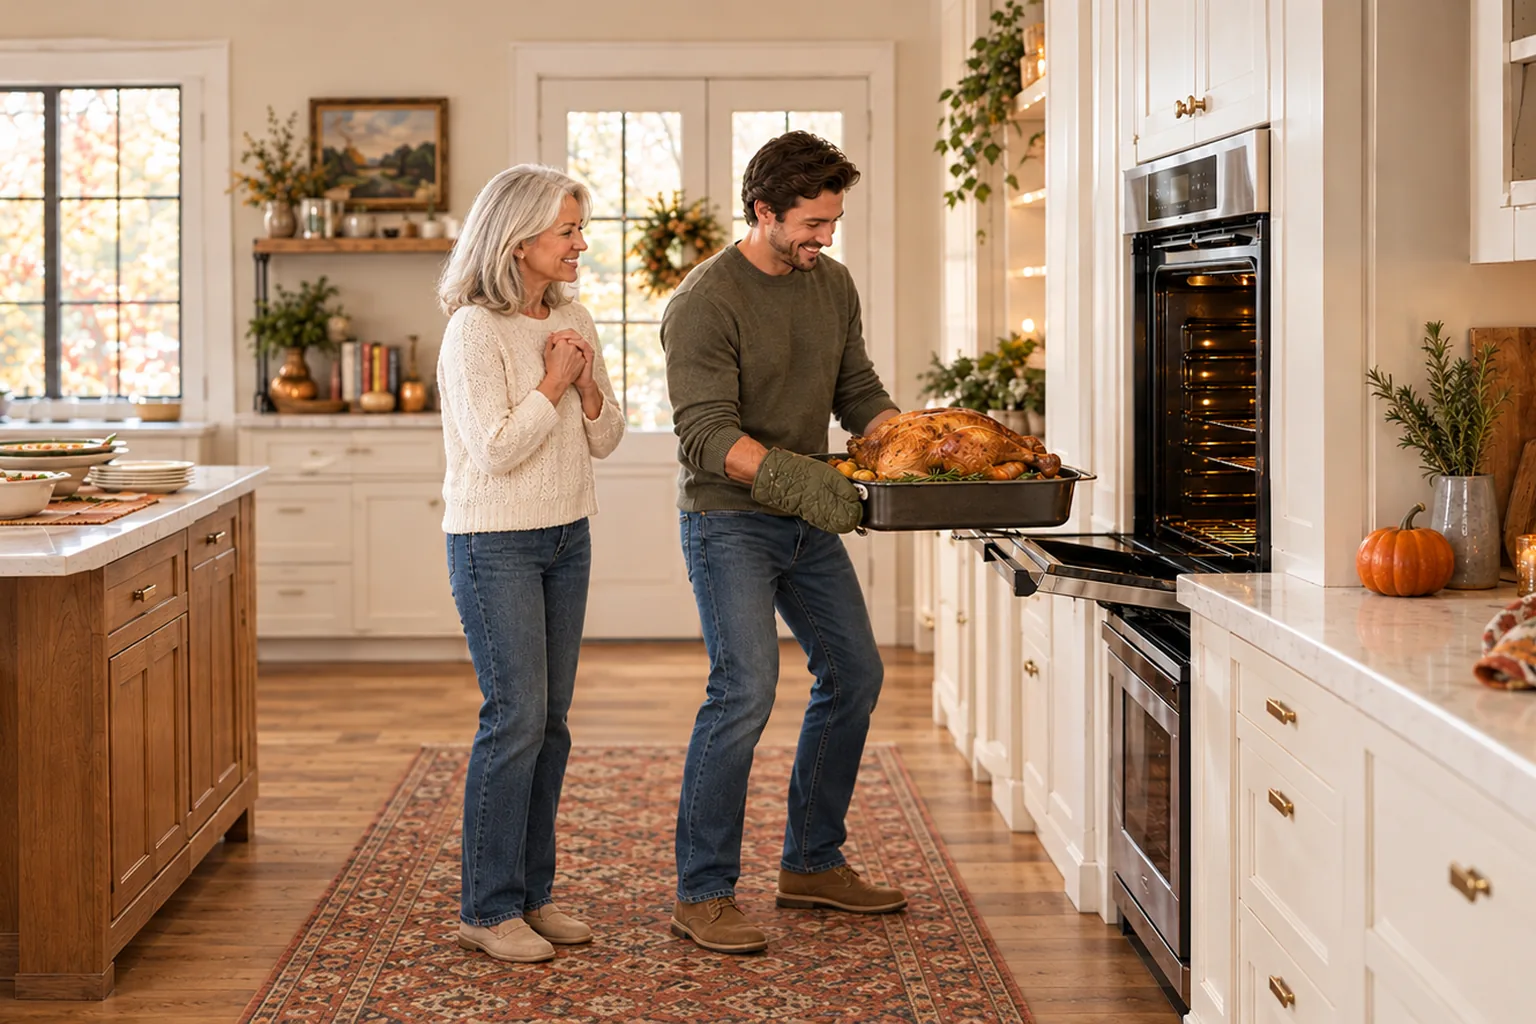
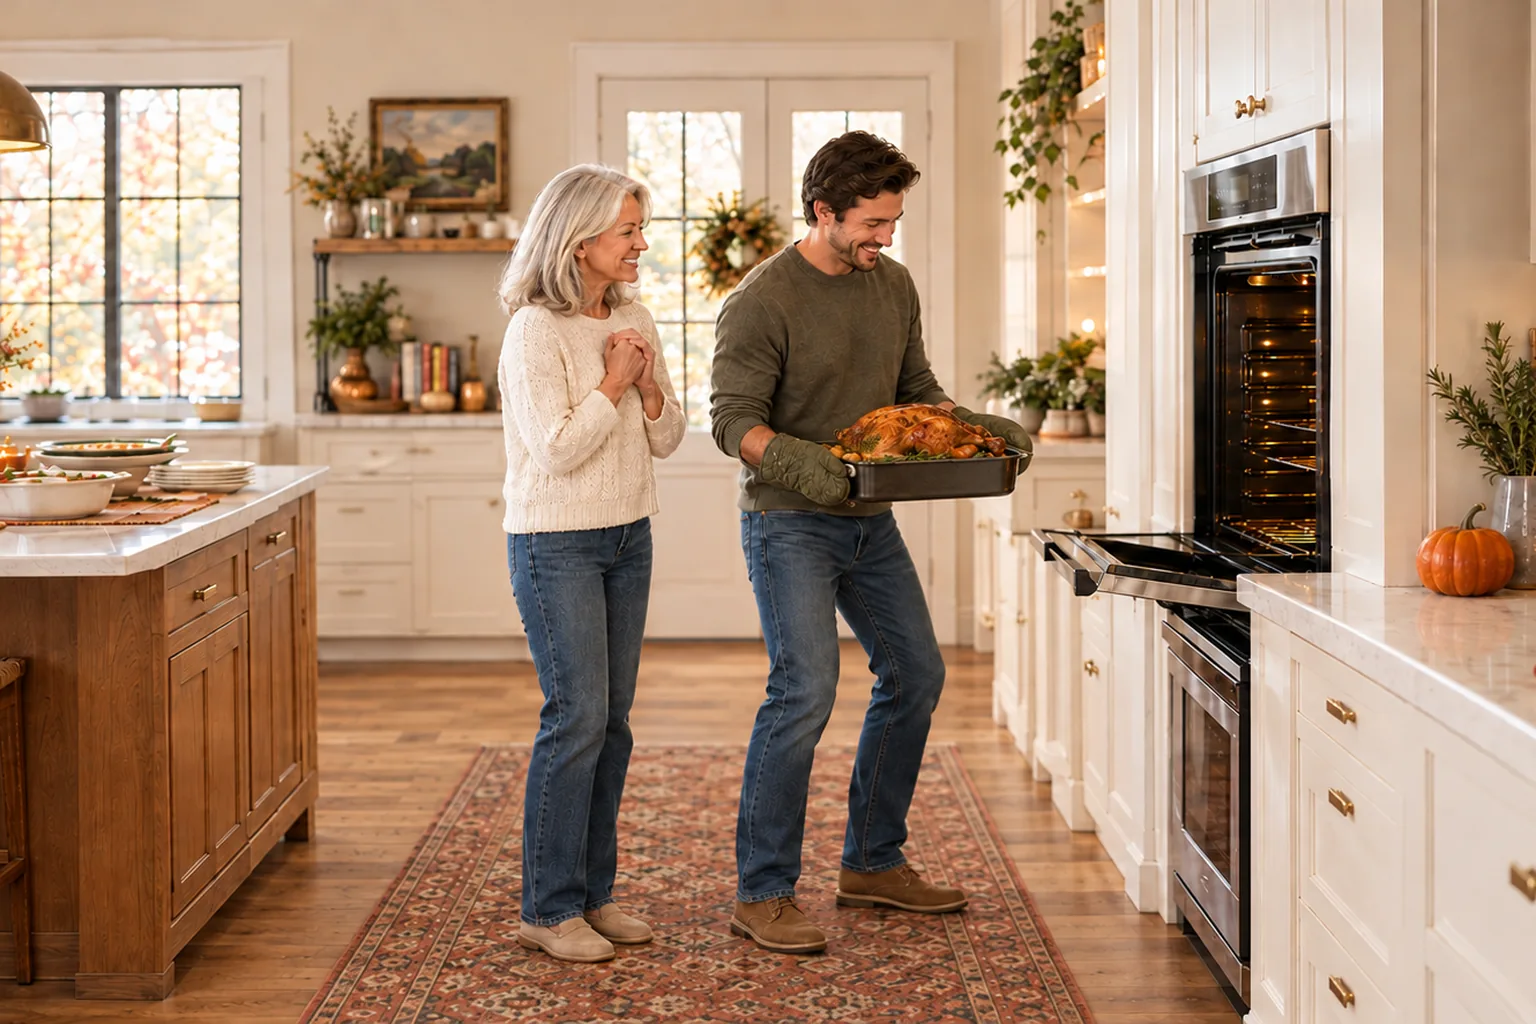
Nov 10 post: corrected hero pan geometry, X-ray line removed per Lisa

diff --git a/blog/holiday-chores-lifting-osteoporosis.html b/blog/holiday-chores-lifting-osteoporosis.html
@@ -624,7 +624,7 @@
     <!-- Post Hero -->
     <div class="post-hero">
         <div class="post-hero-image">
-            <picture><source type="image/webp" srcset="../images/blog-holiday-chores-lifting-osteoporosis-400.webp 400w, ../images/blog-holiday-chores-lifting-osteoporosis-800.webp 800w, ../images/blog-holiday-chores-lifting-osteoporosis-1536.webp 1536w" sizes="100vw"><img src="../images/blog-holiday-chores-lifting-osteoporosis.png" alt="A smiling young man in oven mitts slides a roasting pan with a turkey out of a waist-high wall oven, keeping it close to his body, while his silver-haired mother stands beside him with her hands clasped, watching gratefully" width="1536" height="1024" fetchpriority="high" decoding="async" style="object-position: center 25%"></picture>
+            <picture><source type="image/webp" srcset="../images/blog-holiday-chores-lifting-osteoporosis-400.webp 400w, ../images/blog-holiday-chores-lifting-osteoporosis-800.webp 800w, ../images/blog-holiday-chores-lifting-osteoporosis-1536.webp 1536w" sizes="100vw"><img src="../images/blog-holiday-chores-lifting-osteoporosis.png" alt="A smiling young man holds a roasting pan with a turkey close to his body, gripping both handles with oven mitts, after taking it out of a wall oven, while his silver-haired mother stands beside him with her hands clasped, watching gratefully" width="1536" height="1024" fetchpriority="high" decoding="async" style="object-position: center 25%"></picture>
         </div>
         <div class="post-header">
             <span class="post-tag">Exercise</span>
@@ -768,7 +768,7 @@
 
         <p>It's usually <a href="https://www.osteoporosis.foundation/sites/iofbonehealth/files/2026-09/osteoporosis_whatyouneedtoknow_en_1.pdf" target="_blank" rel="noopener noreferrer">in the middle or lower back</a>.</p>
 
-        <p>If that sounds like what you're feeling, call your doctor. A <a href="https://www.orthoinfo.org/diseases--conditions/osteoporosis-and-spinal-fractures/" target="_blank" rel="noopener noreferrer">spine X-ray</a> can tell whether a bone has broken. Not every spine fracture hurts, either. Losing height or noticing your upper back is more curved can <a href="https://theros.org.uk/information-and-support/about-osteoporosis-and-osteopenia/osteoporosis-symptoms/" target="_blank" rel="noopener noreferrer">also be a sign</a>, and it's worth mentioning at your next visit.</p>
+        <p>If that sounds like what you're feeling, call your doctor for further evaluation. Not every spine fracture hurts, either. Losing height or noticing your upper back is more curved can <a href="https://theros.org.uk/information-and-support/about-osteoporosis-and-osteopenia/osteoporosis-symptoms/" target="_blank" rel="noopener noreferrer">also be a sign</a>, and it's worth mentioning at your next visit.</p>
 
         <p>The American Association of Neurological Surgeons says to <a href="https://www.aans.org/patients/conditions-treatments/vertebral-compression-fractures/" target="_blank" rel="noopener noreferrer">go to the emergency room</a> if back pain comes with numbness or weakness (for example, in your legs), severe pain, a high fever, or any loss of control of your bladder or bowels. These are uncommon, but they can mean <a href="https://www.orthoinfo.org/diseases--conditions/osteoporosis-and-spinal-fractures/" target="_blank" rel="noopener noreferrer">a nerve is under pressure</a> or something else needs urgent care.</p>
 

diff --git a/scripts/november-bodies/holiday-chores-lifting-osteoporosis.html b/scripts/november-bodies/holiday-chores-lifting-osteoporosis.html
@@ -131,7 +131,7 @@
 
 <p>It's usually <a href="https://www.osteoporosis.foundation/sites/iofbonehealth/files/2026-09/osteoporosis_whatyouneedtoknow_en_1.pdf" target="_blank" rel="noopener noreferrer">in the middle or lower back</a>.</p>
 
-<p>If that sounds like what you're feeling, call your doctor. A <a href="https://www.orthoinfo.org/diseases--conditions/osteoporosis-and-spinal-fractures/" target="_blank" rel="noopener noreferrer">spine X-ray</a> can tell whether a bone has broken. Not every spine fracture hurts, either. Losing height or noticing your upper back is more curved can <a href="https://theros.org.uk/information-and-support/about-osteoporosis-and-osteopenia/osteoporosis-symptoms/" target="_blank" rel="noopener noreferrer">also be a sign</a>, and it's worth mentioning at your next visit.</p>
+<p>If that sounds like what you're feeling, call your doctor for further evaluation. Not every spine fracture hurts, either. Losing height or noticing your upper back is more curved can <a href="https://theros.org.uk/information-and-support/about-osteoporosis-and-osteopenia/osteoporosis-symptoms/" target="_blank" rel="noopener noreferrer">also be a sign</a>, and it's worth mentioning at your next visit.</p>
 
 <p>The American Association of Neurological Surgeons says to <a href="https://www.aans.org/patients/conditions-treatments/vertebral-compression-fractures/" target="_blank" rel="noopener noreferrer">go to the emergency room</a> if back pain comes with numbness or weakness (for example, in your legs), severe pain, a high fever, or any loss of control of your bladder or bowels. These are uncommon, but they can mean <a href="https://www.orthoinfo.org/diseases--conditions/osteoporosis-and-spinal-fractures/" target="_blank" rel="noopener noreferrer">a nerve is under pressure</a> or something else needs urgent care.</p>
 

diff --git a/blog/index.html b/blog/index.html
@@ -516,7 +516,7 @@
             <div class="blog-grid">
                 <a href="holiday-chores-lifting-osteoporosis.html" class="blog-card">
                     <div class="blog-card-image">
-                        <picture><source type="image/webp" srcset="../images/blog-holiday-chores-lifting-osteoporosis-400.webp 400w, ../images/blog-holiday-chores-lifting-osteoporosis-800.webp 800w, ../images/blog-holiday-chores-lifting-osteoporosis-1536.webp 1536w" sizes="(max-width: 768px) 100vw, 380px"><img src="../images/blog-holiday-chores-lifting-osteoporosis.png" alt="A smiling young man in oven mitts slides a roasting pan with a turkey out of a waist-high wall oven, keeping it close to his body, while his silver-haired mother stands beside him with her hands clasped, watching gratefully" width="1536" height="1024" fetchpriority="high" decoding="async"></picture>
+                        <picture><source type="image/webp" srcset="../images/blog-holiday-chores-lifting-osteoporosis-400.webp 400w, ../images/blog-holiday-chores-lifting-osteoporosis-800.webp 800w, ../images/blog-holiday-chores-lifting-osteoporosis-1536.webp 1536w" sizes="(max-width: 768px) 100vw, 380px"><img src="../images/blog-holiday-chores-lifting-osteoporosis.png" alt="A smiling young man holds a roasting pan with a turkey close to his body, gripping both handles with oven mitts, after taking it out of a wall oven, while his silver-haired mother stands beside him with her hands clasped, watching gratefully" width="1536" height="1024" fetchpriority="high" decoding="async"></picture>
                     </div>
                     <div class="blog-card-content">
                         <span class="blog-card-tag">Exercise</span>

diff --git a/index.html b/index.html
@@ -1367,7 +1367,7 @@
             <div class="blog-grid">
                 <article class="blog-card">
                     <div class="blog-card-image">
-                        <picture><source type="image/webp" srcset="images/blog-holiday-chores-lifting-osteoporosis-400.webp 400w, images/blog-holiday-chores-lifting-osteoporosis-800.webp 800w, images/blog-holiday-chores-lifting-osteoporosis-1536.webp 1536w" sizes="(max-width: 768px) 100vw, 380px"><img src="images/blog-holiday-chores-lifting-osteoporosis.png" alt="A smiling young man in oven mitts slides a roasting pan with a turkey out of a waist-high wall oven, keeping it close to his body, while his silver-haired mother stands beside him with her hands clasped, watching gratefully" width="1536" height="1024" loading="lazy" decoding="async"></picture>
+                        <picture><source type="image/webp" srcset="images/blog-holiday-chores-lifting-osteoporosis-400.webp 400w, images/blog-holiday-chores-lifting-osteoporosis-800.webp 800w, images/blog-holiday-chores-lifting-osteoporosis-1536.webp 1536w" sizes="(max-width: 768px) 100vw, 380px"><img src="images/blog-holiday-chores-lifting-osteoporosis.png" alt="A smiling young man holds a roasting pan with a turkey close to his body, gripping both handles with oven mitts, after taking it out of a wall oven, while his silver-haired mother stands beside him with her hands clasped, watching gratefully" width="1536" height="1024" loading="lazy" decoding="async"></picture>
                     </div>
                     <div class="blog-card-content">
                         <div class="blog-card-date">November 10, 2026</div>

diff --git a/scripts/build_holiday_chores_post.py b/scripts/build_holiday_chores_post.py
@@ -39,7 +39,7 @@ POSTS = [
         title="Holiday Chores With Osteoporosis: Lift and Bend Safely",
         meta="Turkey pans, heavy pots, high cabinets, decoration bins, and grocery bags. How to handle holiday chores with osteoporosis, and when back pain needs a call.",
         blurb="The holidays bring the heaviest housework of the year. How to handle the turkey pan, heavy pots, high cabinets, vacuuming, decoration bins, and grocery bags with osteoporosis, what to make of the 10-pound rule, and when back pain after lifting needs a call.",
-        alt="A smiling young man in oven mitts slides a roasting pan with a turkey out of a waist-high wall oven, keeping it close to his body, while his silver-haired mother stands beside him with her hands clasped, watching gratefully",
+        alt="A smiling young man holds a roasting pan with a turkey close to his body, gripping both handles with oven mitts, after taking it out of a wall oven, while his silver-haired mother stands beside him with her hands clasped, watching gratefully",
         about=["Osteoporosis", "Safe lifting", "Vertebral fracture", "Fall prevention", "Body mechanics"],
         disclaimer="This blog post is for educational purposes only and isn't intended as medical advice. Always consult with your healthcare provider or a physical therapist about what's safe for you to lift, especially if you've had a spine fracture.",
         related=["squats-lifting-bending-osteoporosis.html", "fall-proofing-whole-house.html", "exercise-after-fracture.html"],
